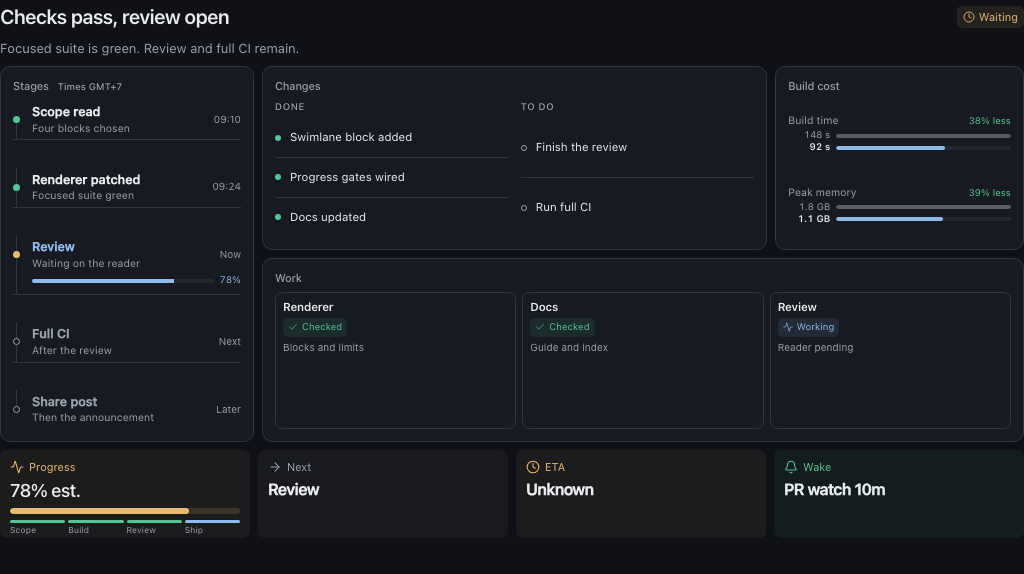
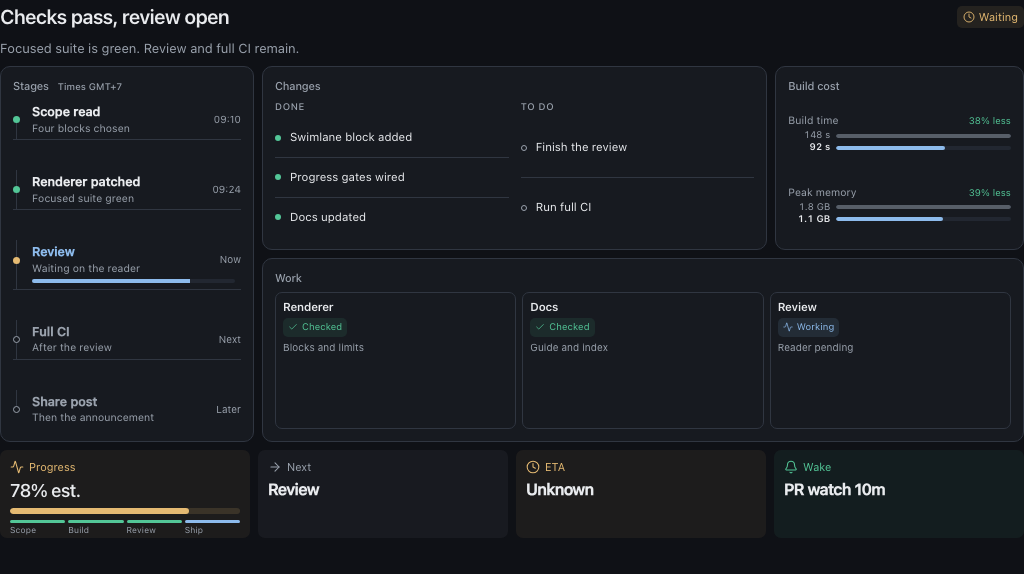
Show the current step percent once, in the rail header

diff --git a/ui-library/reply-template.html b/ui-library/reply-template.html
@@ -354,7 +354,7 @@
 >
   <circle cx="12" cy="12" r="10" />
   <path d="M12 6v6l4 2" />
-</svg><span>Waiting</span></span></header><p class="reply-text">Focused suite is green. Review and full CI remain.</p><section class="tile-grid reply-sections" data-layout="side" aria-label="Supporting blocks"><section class="component-tile reply-section-tile" data-height="tall" data-section-type="swimlane" data-span="1"><div class="demo tile-body"><h2>Stages <span class="section-zone">Times GMT+7</span></h2><div class="reply-body"><ol class="swimlane"><li class="done"><span class="dot done" aria-hidden="true"></span><span class="swimlane-copy"><b>Scope read</b><small>Four blocks chosen</small></span><time>09:10</time></li><li class="done"><span class="dot done" aria-hidden="true"></span><span class="swimlane-copy"><b>Renderer patched</b><small>Focused suite green</small></span><time>09:24</time></li><li class="waiting"><span class="dot waiting" aria-hidden="true"></span><span class="swimlane-copy"><b>Review</b><small>Waiting on the reader</small></span><time>Now</time><span class="swimlane-step"><span class="swimlane-meter" role="progressbar" aria-label="Current step progress" aria-valuemin="0" aria-valuemax="100" aria-valuenow="78"><i style="--value:78%"></i></span><small>78%</small></span></li><li class="pending"><span class="dot pending" aria-hidden="true"></span><span class="swimlane-copy"><b>Full CI</b><small>After the review</small></span><time>Next</time></li><li class="pending"><span class="dot pending" aria-hidden="true"></span><span class="swimlane-copy"><b>Share post</b><small>Then the announcement</small></span><time>Later</time></li></ol></div></div></section><div class="reply-flow" data-count="3"><section class="component-tile reply-section-tile" data-height="small" data-section-type="changes" data-span="2"><div class="demo tile-body"><h2>Changes</h2><div class="reply-body"><div class="changes"><div class="change-col done"><p class="change-head">Done</p><ul class="change-list"><li><span class="dot done" aria-hidden="true"></span><span>Swimlane block added</span></li><li><span class="dot done" aria-hidden="true"></span><span>Progress gates wired</span></li><li><span class="dot done" aria-hidden="true"></span><span>Docs updated</span></li></ul></div><div class="change-col pending"><p class="change-head">To do</p><ul class="change-list"><li><span class="dot pending" aria-hidden="true"></span><span>Finish the review</span></li><li><span class="dot pending" aria-hidden="true"></span><span>Run full CI</span></li></ul></div></div></div></div></section><section class="component-tile reply-section-tile" data-height="small" data-section-type="compare" data-span="1"><div class="demo tile-body"><h2>Build cost</h2><div class="reply-body"><div class="compare"><div class="compare-row"><div class="compare-line"><span class="compare-label">Build time</span><span class="compare-delta">38% less</span></div><div class="compare-bar before"><span class="compare-value">148 s</span><span class="compare-track"><i style="--value:100%"></i></span></div><div class="compare-bar after"><span class="compare-value">92 s</span><span class="compare-track"><i style="--value:62.2%"></i></span></div></div><div class="compare-row"><div class="compare-line"><span class="compare-label">Peak memory</span><span class="compare-delta">39% less</span></div><div class="compare-bar before"><span class="compare-value">1.8 GB</span><span class="compare-track"><i style="--value:100%"></i></span></div><div class="compare-bar after"><span class="compare-value">1.1 GB</span><span class="compare-track"><i style="--value:61.1%"></i></span></div></div></div></div></div></section><section class="component-tile reply-section-tile" data-height="small" data-section-type="cards" data-span="3"><div class="demo tile-body"><h2>Work</h2><div class="reply-body"><div class="reply-cards"><article class="reply-card"><h3>Renderer</h3><span class="pill" data-tone="ok"><svg class="icon" aria-hidden="true" focusable="false"
+</svg><span>Waiting</span></span></header><p class="reply-text">Focused suite is green. Review and full CI remain.</p><section class="tile-grid reply-sections" data-layout="side" aria-label="Supporting blocks"><section class="component-tile reply-section-tile" data-height="tall" data-section-type="swimlane" data-span="1"><div class="demo tile-body"><h2>Stages <span class="section-zone">Times GMT+7</span></h2><div class="reply-body"><ol class="swimlane"><li class="done"><span class="dot done" aria-hidden="true"></span><span class="swimlane-copy"><b>Scope read</b><small>Four blocks chosen</small></span><time>09:10</time></li><li class="done"><span class="dot done" aria-hidden="true"></span><span class="swimlane-copy"><b>Renderer patched</b><small>Focused suite green</small></span><time>09:24</time></li><li class="waiting"><span class="dot waiting" aria-hidden="true"></span><span class="swimlane-copy"><b>Review</b><small>Waiting on the reader</small></span><time>Now</time><span class="swimlane-step"><span class="swimlane-meter" role="progressbar" aria-label="Current step progress" aria-valuemin="0" aria-valuemax="100" aria-valuenow="78"><i style="--value:78%"></i></span></span></li><li class="pending"><span class="dot pending" aria-hidden="true"></span><span class="swimlane-copy"><b>Full CI</b><small>After the review</small></span><time>Next</time></li><li class="pending"><span class="dot pending" aria-hidden="true"></span><span class="swimlane-copy"><b>Share post</b><small>Then the announcement</small></span><time>Later</time></li></ol></div></div></section><div class="reply-flow" data-count="3"><section class="component-tile reply-section-tile" data-height="small" data-section-type="changes" data-span="2"><div class="demo tile-body"><h2>Changes</h2><div class="reply-body"><div class="changes"><div class="change-col done"><p class="change-head">Done</p><ul class="change-list"><li><span class="dot done" aria-hidden="true"></span><span>Swimlane block added</span></li><li><span class="dot done" aria-hidden="true"></span><span>Progress gates wired</span></li><li><span class="dot done" aria-hidden="true"></span><span>Docs updated</span></li></ul></div><div class="change-col pending"><p class="change-head">To do</p><ul class="change-list"><li><span class="dot pending" aria-hidden="true"></span><span>Finish the review</span></li><li><span class="dot pending" aria-hidden="true"></span><span>Run full CI</span></li></ul></div></div></div></div></section><section class="component-tile reply-section-tile" data-height="small" data-section-type="compare" data-span="1"><div class="demo tile-body"><h2>Build cost</h2><div class="reply-body"><div class="compare"><div class="compare-row"><div class="compare-line"><span class="compare-label">Build time</span><span class="compare-delta">38% less</span></div><div class="compare-bar before"><span class="compare-value">148 s</span><span class="compare-track"><i style="--value:100%"></i></span></div><div class="compare-bar after"><span class="compare-value">92 s</span><span class="compare-track"><i style="--value:62.2%"></i></span></div></div><div class="compare-row"><div class="compare-line"><span class="compare-label">Peak memory</span><span class="compare-delta">39% less</span></div><div class="compare-bar before"><span class="compare-value">1.8 GB</span><span class="compare-track"><i style="--value:100%"></i></span></div><div class="compare-bar after"><span class="compare-value">1.1 GB</span><span class="compare-track"><i style="--value:61.1%"></i></span></div></div></div></div></div></section><section class="component-tile reply-section-tile" data-height="small" data-section-type="cards" data-span="3"><div class="demo tile-body"><h2>Work</h2><div class="reply-body"><div class="reply-cards"><article class="reply-card"><h3>Renderer</h3><span class="pill" data-tone="ok"><svg class="icon" aria-hidden="true" focusable="false"
  
  
  
